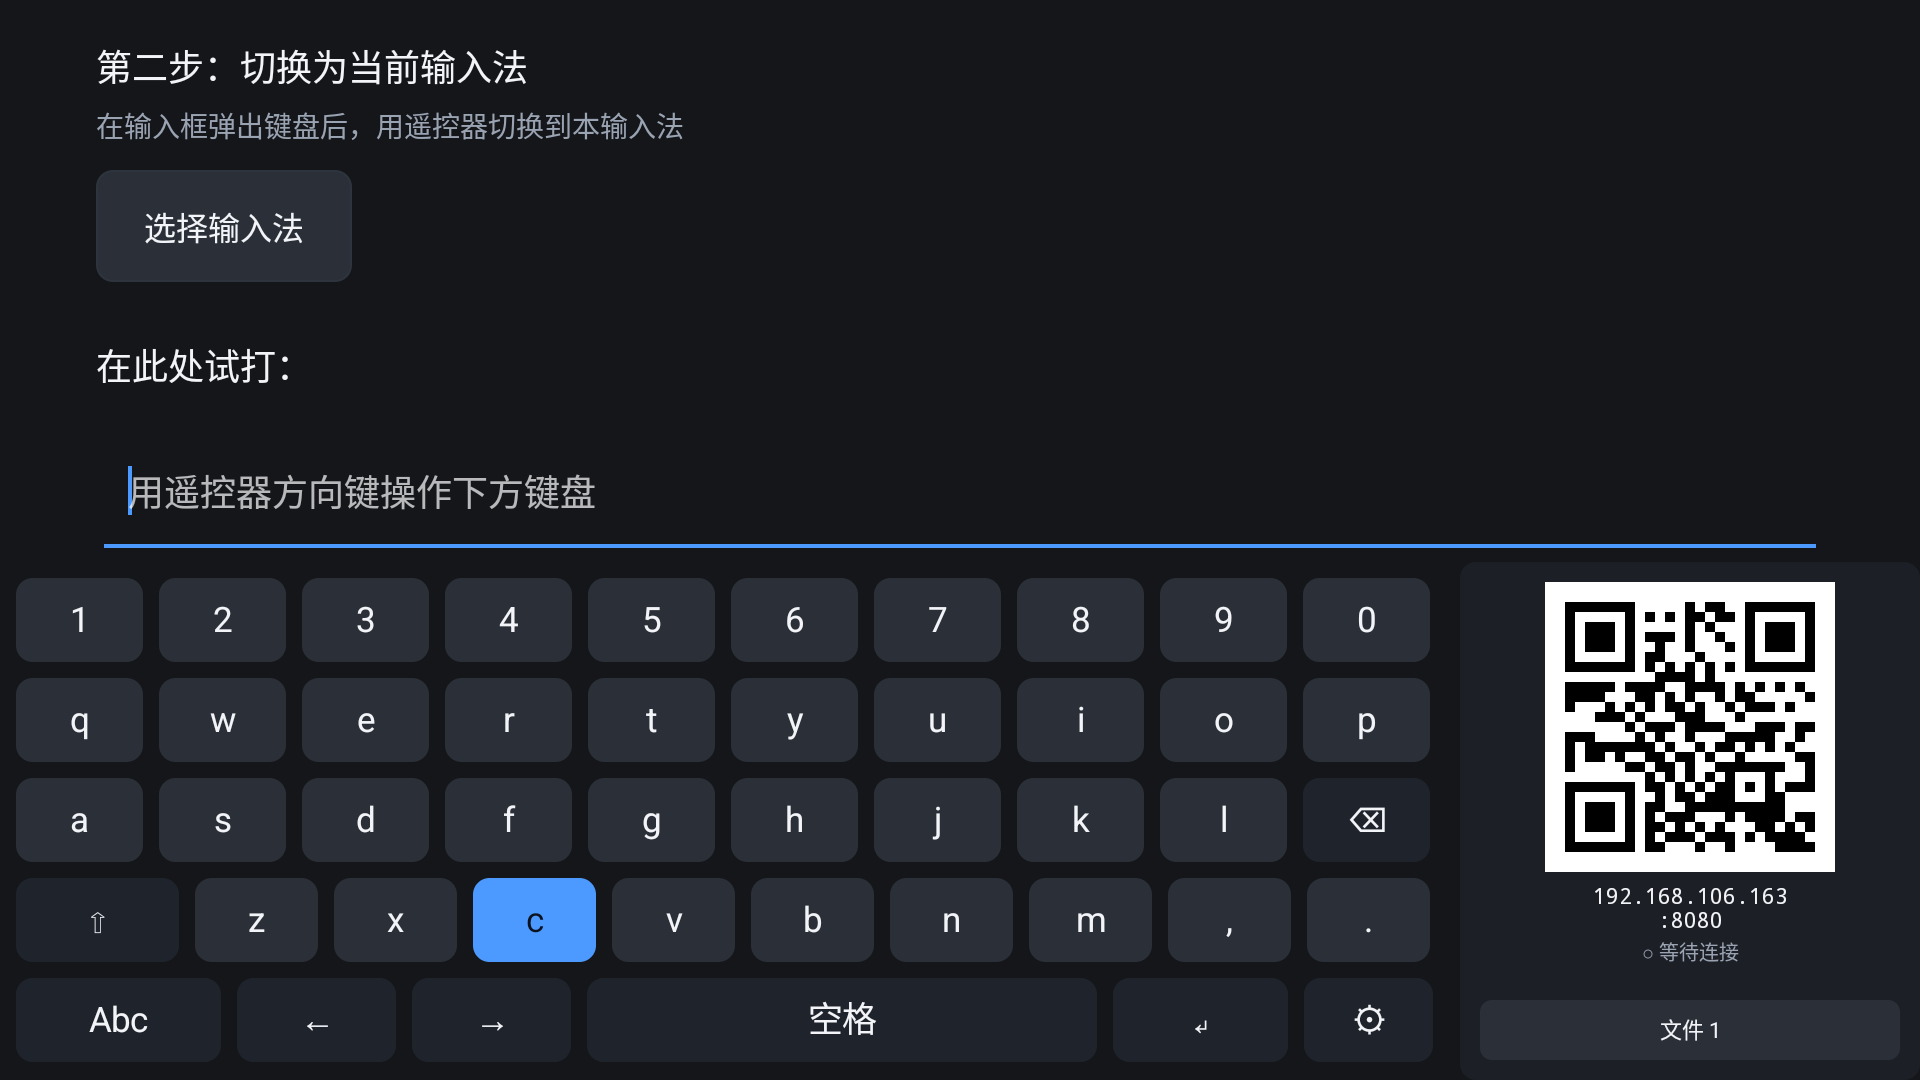
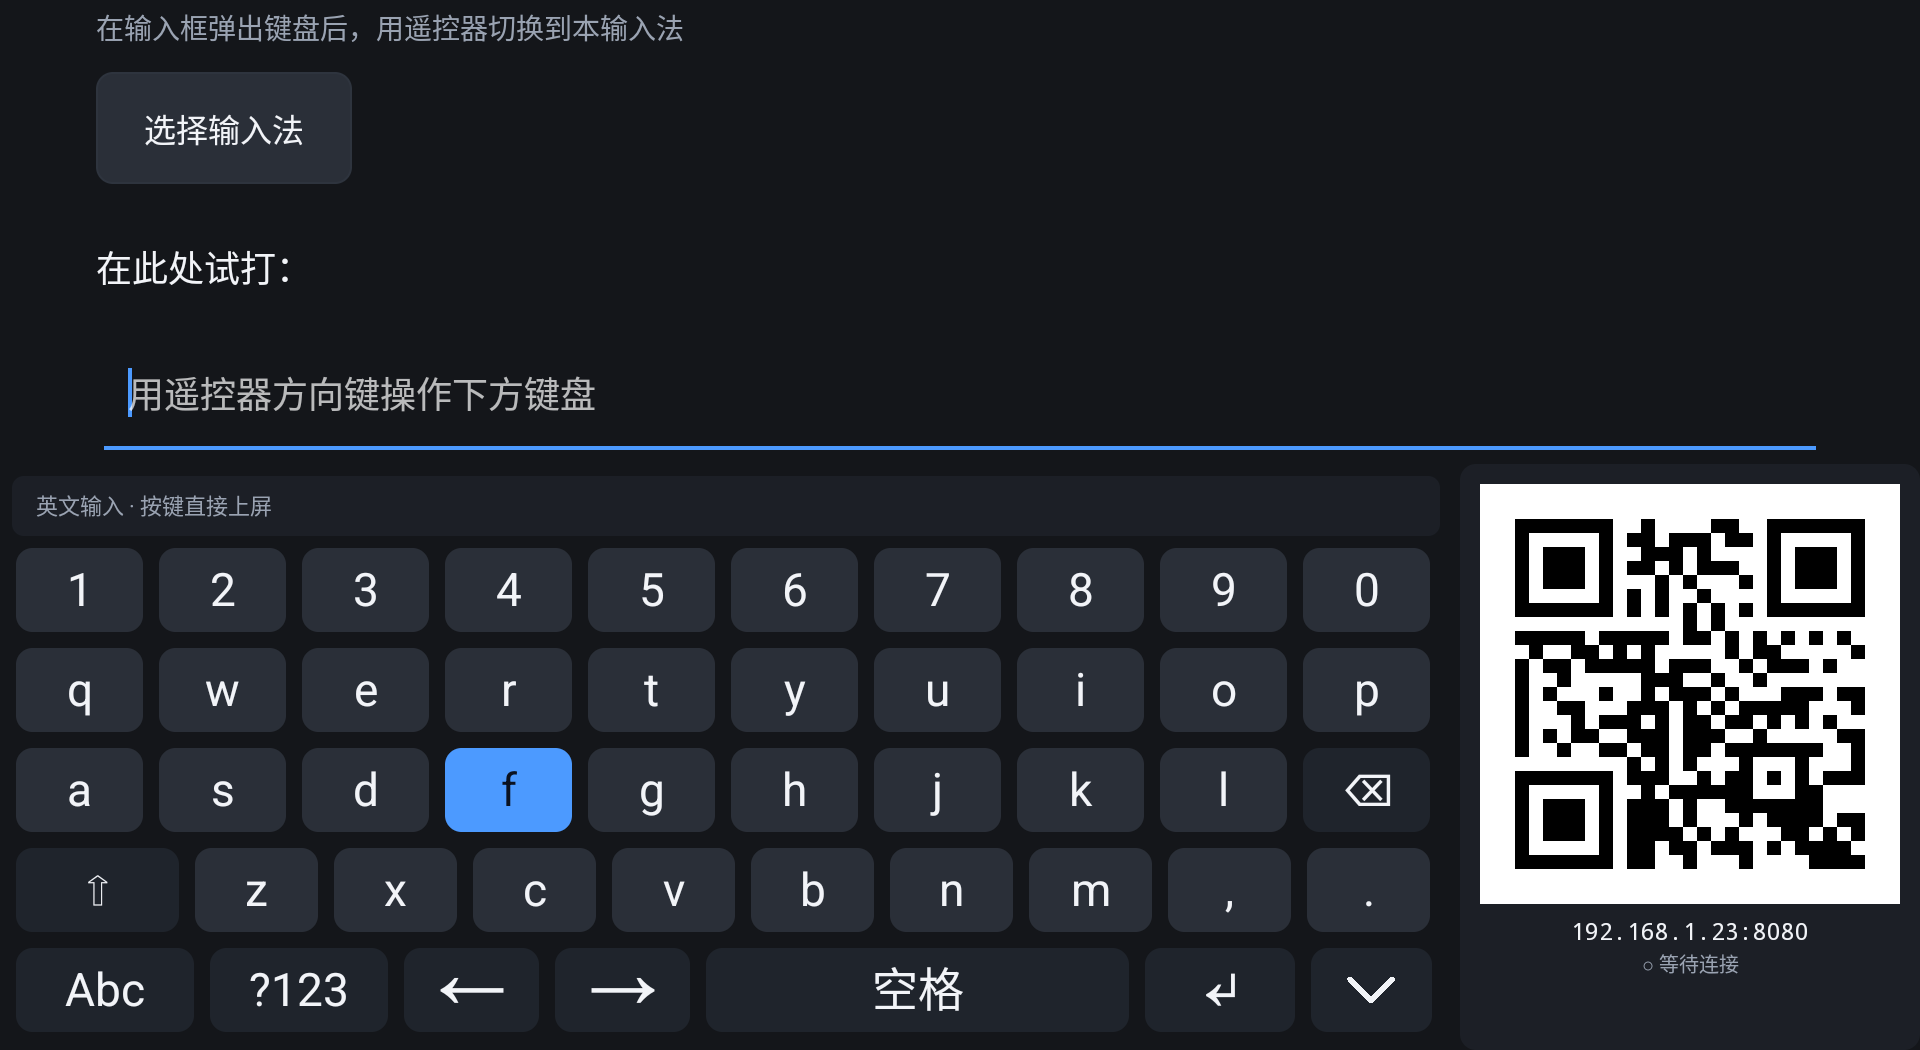
docs: 截图更新到 v1.0.0，内网地址改为示例地址
- 重截 ime-keyboard.png（v1.0.0 键盘区 + 常驻二维码面板）与 state-enabled.png
  （设置页三态检测显示「已启用并选中」），替换 v0.7 时期的旧图
- docs/02-模拟器跨屏联调.md：本机内网地址 192.168.106.163 全部换成示例地址 192.168.1.23
- 修正 settings_about_body 里仍提到「投送文件」的文案（该功能 v0.8 已移除）

diff --git a/README.md b/README.md
@@ -8,7 +8,7 @@ Android 5.0+ ・ Kotlin ・ 局域网直连 ・ 无账号无配对
 
 ![键盘与常驻二维码面板](docs/screenshots/ime-keyboard.png)
 
-<sub>截图为 v0.7 实机界面；面板底部的「文件」入口已在 v0.8 移除，跨屏通道现在只承载文字。</sub>
+<sub>v1.0.0 界面：左侧键盘区 + 右侧常驻二维码面板。手机扫二维码即可代打，面板同时显示 IP:端口 供手输兜底。</sub>
 
 ---
 
